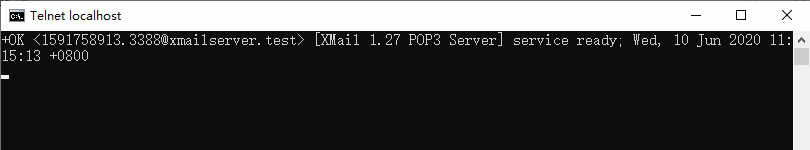
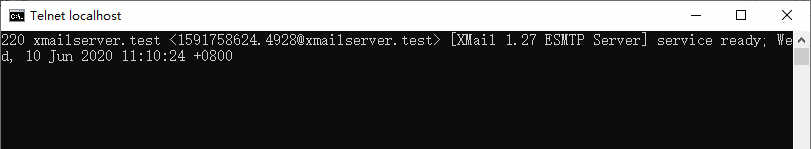
writing

diff --git a/55_系统运维/202006091546_把XMail企业邮局应用到系统管理中（安装篇）/把XMail企业邮局应用到系统管理中（安装篇）.md b/55_系统运维/202006091546_把XMail企业邮局应用到系统管理中（安装篇）/把XMail企业邮局应用到系统管理中（安装篇）.md
@@ -6,33 +6,33 @@
 
 在日常系统管理中会涉及到各种各样的设备，不外乎服务器、网络设备或打印机等等。
 
-而当型号各异的它们数量渐渐增多、规模渐渐庞大时，管理好它们绝对是一种极其酸爽的感觉！
+而当型号各异的它们数量渐渐增多、规模渐渐庞大时，人工式地管理好它们绝对是一种极其酸爽的感觉！
 
-单单拿一台服务器来说，人工检查它的健康状态至少要包括诸如CPU使用率、磁盘阵列状态、内存利用率、UPS电源状况等等内容。
+单单拿一台服务器来说，人工检查它的健康状态至少要包括诸如CPU占用率、磁盘阵列状态、内存利用率、UPS电源状况等等内容。
 
 这还只是一些硬件方面的，软件系统方面的就更不用说了，你可以想像一下一位幼儿园老师要面对一群调皮捣蛋的娃儿们就心中有数了吧！
 
-通常，娃儿们吃饭做游戏，自娱自乐还算听话，不过要是还没等你反应过来就出了状况，恐怕后果很严重。
+通常，娃儿们搭积木做游戏，自娱自乐还算听话，不过要是还没等你反应过来就出了状况，恐怕后果很严重。
 
-那可不可以让娃儿们自己举手说，报告老师，我在玩滑梯，可能会摔倒？
+那可不可以让娃儿们自己举手说，报告老师，我在玩滑梯，可能会摔个屁股蹲儿哦？
 
-要是那样的话，娃儿也就不是娃儿了，哪有那么聪明懂事的呢？
+要是那样的话，娃儿也就不是娃儿了，哪有那么聪明懂事的祖国花骨朵儿呢！
 
-你还真别说，系统管理中就有可能，当然不是指娃娃啦！
+但是回到系统管理实践中，你还真别说，这样的事是有可能的，当然你懂的，不是指娃娃啦！
 
 
 
-通过邮局传递报警信息，可以第一时间预知或定位问题，事半功倍！
+现在不管是服务器还是系统设备，都自带有SMTP发送报警信息的功能，用于自动体检后报告给系统管理员。
 
-而邮局系统里当数 `XMail` 最简单、最好使了！
+我们可以通过邮局传递报警信息，在第一时间预知或定位问题所在，达到事半功倍的效果！
 
-> `XMail Server` 简介
->
+而邮局系统里当数 `XMail` 最简单、最好用了！
+
 > `XMail` 是开放源代码的免费电子邮件服务器软件，功能强大稳定，兼容性好，可以运行在 `linux` 、`windows` 、`sun` 、`bsd` 等各种平台上。
 
-开源免费多平台运行，够强大我喜欢，不过我们先在 `Windows` 平台上用用看。
+开源免费多平台运行，够强大我喜欢，我们先在 `Windows` 平台上用用看。
 
-接下来我会分享如何安装 `XMail` ，并且在文末分享给小伙伴们我总的一键安装方法（有下载）。
+接下来我会分享如何安装 `XMail` ，并且在文末分享给小伙伴们我总结整理的 **一键安装XMail程序包** （文末有下载）。
 
 一键安装虽然方便快速，但既然学习一次，就认真了解一下，所以还是会简单扼要地介绍一下如何手动安装，也不难的哦！
 
@@ -48,11 +48,11 @@
 
 #### 一、下载 `XMail` 安装包
 
-官网网址是 `http://www.xmailserver.org` ，但可能打不开，不用担心，它有多个镜像站点，速度会快很多，比如：`http://www.de.xmailserver.org` 。
+官网网址是 `http://www.xmailserver.org` ，但是可能打不开了，不用担心，它有多个镜像站点，速度会快很多，比如：`http://www.de.xmailserver.org` ，我就用的这个。
 
 官网安装包下载链接：`http://www.de.xmailserver.org/xmail-1.27.win32bin.zip`
 
-当然了，文末的一键安装包里已经包含了官网的安装包了，你也可以直接使用。
+当然了，文末的一键安装程序包里已经包含了官网的安装包了，你也可以直接使用。
 
 图1
 
@@ -62,11 +62,11 @@
 
 将 `xmail-1.27.win32bin.zip` 解压缩到某处，比如 `C:\xmail-1.27` 。
 
-然后，
+然后一顿操作......
 
 
 
-1、将其中的 `MailRoot` 目录（含所有文件）复制到C盘根目录下，就像这样 `C:\MailRoot` 。
+1、将其中的 `MailRoot` 目录（含所有文件和目录）复制到C盘根目录下，就像这样 `C:\MailRoot` 。
 
 
 
@@ -76,20 +76,20 @@
 
 3、打开注册表，在 `HKEY_LOCAL_MACHINE\SOFTWARE\WOW6432Node` 位置创建 `GNU` 项，然后在刚建好的 `GNU` 项下面再创建 `XMail` 项。
 
-在 `XMail` 项中，创建一个名称为 `MAIL_ROOT` ，键值为 `C:\MailRoot` 的字符串键。
+在 `XMail` 项中，创建一个名称为 `MAIL_ROOT` ，键值为 `C:\MailRoot` 的字符串（REG_SZ）键。
 
 这里有两点需要注意：
 
-* 这里的键值要以前面第1点你放置的实际目录为准。
+* 这里的键值 `C:\MailRoot` 要以前面第1点你放置的实际 `MailRoot` 目录为准。
 * 如果你的操作系统是32位的，那么注册表路径应该是 ``HKEY_LOCAL_MACHINE\SOFTWARE` 。
 
 图2
 
 
 
-4、右击 `此电脑` ，属性 > 高级系统设置 > 环境变量 。
+4、右击 `此电脑` ，`属性` > `高级系统设置` > `环境变量` 。
 
-在下面 `系统变量` 部分点击 `新建` 按钮，变量名填写 `MAIL_ROOT` ，变更值填写 `C:\MailRoot` 。
+在下面 `系统变量` 部分点击 `新建` 按钮，变量名填写 `MAIL_ROOT` ，变量值填写 `C:\MailRoot` 。
 
 图3
 
@@ -97,7 +97,7 @@
 
 #### 三、注册启动服务
 
-`XMail` 支持以Windows服务形式运行，我们把它注册为服务，只需两条命令。
+`XMail` 支持以Windows服务形式运行，我们把它注册为服务，只需以下几条命令。
 
 ```powershell
 # 切换到 bin 目录
@@ -114,23 +114,25 @@ XMail --remove
 
 依次打开`控制面板` > `系统和安全` > `管理工具` > `服务` ，双击服务列表中的 `XMail Server` 一项，选择启动类型为 `自动` ，并点击启动。
 
+图4
+
 
 
 #### 四、简单测试一下
 
 服务顺利启动后，我们可以先做个简单的测试，看看 `XMail` 是否能正常工作。
 
-在开始测试前，你要先确保 `telnet` 命令可用。
+在开始测试前，你要先确保 `telnet` 命令可用，如果你还没有，那么看下面。
 
 依次打开 `控制面板` > `程序` > `启用或关闭 Windows 功能` ，在打开的列表中勾选 `Telnet 客户端` ，确定安装。
 
-图4
+图5
 
 
 
 有了 `telnet` 命令，我们就可以它来测试 `XMail` 了。
 
-打开一个命令控制台，输入以下测试命令：
+打开一个命令控制台，分别输入以下测试命令：
 
 
 
@@ -141,7 +143,7 @@ telnet localhost 25
 
 返回如下内容说明工作正常。
 
-图5
+图6
 
 
 
@@ -152,17 +154,17 @@ telnet localhost 110
 
 返回如下内容说明工作正常。
 
-图6
+图7
 
 
 
-到这里 `XMail` 已经成功安装完了，说简单好像也麻烦的哈？
+到这里 `XMail` 已经成功安装完了，说简单好像也还是有些麻烦哈？
 
 没事，在文章最后有我做好的 **一键安装XMail程序包** 下载，在学会手动安装的基础上使用它会更加爽快！
 
 
 
-好了，安装方面是没问题了，但是要真真正正地使用它，可能还远远没有结束哦。
+好了，安装方面是没问题了，但是要真真正正地使用它，还只是个开始哦。
 
 正像上面测试的图片中你所看到的，它的域名是 `xmailserver.test` ，除此之外还有用户啥的，还需要进一步配置才可以为我所用。
 
@@ -174,9 +176,14 @@ telnet localhost 110
 
 
 
-最后附上，一键安装 `XMail` 程序包下载链接：
+最后附上，一键安装 `XMail` 程序包下载链接：https://o8.cn/xyAFDX
 
+提取码：4z21    解压密码：www.sysadm.cc
 
+时间管理大师的奖杯在向你招手，如果好用，记得转发分享，让更多的小伙伴们关注哦！
 
-如果好用，记得转发分享，让更多的小伙伴们关注哦！
-
+> WeChat@网管小贾
+>
+> Blog@www.sysadm.cc
+>
+> 
